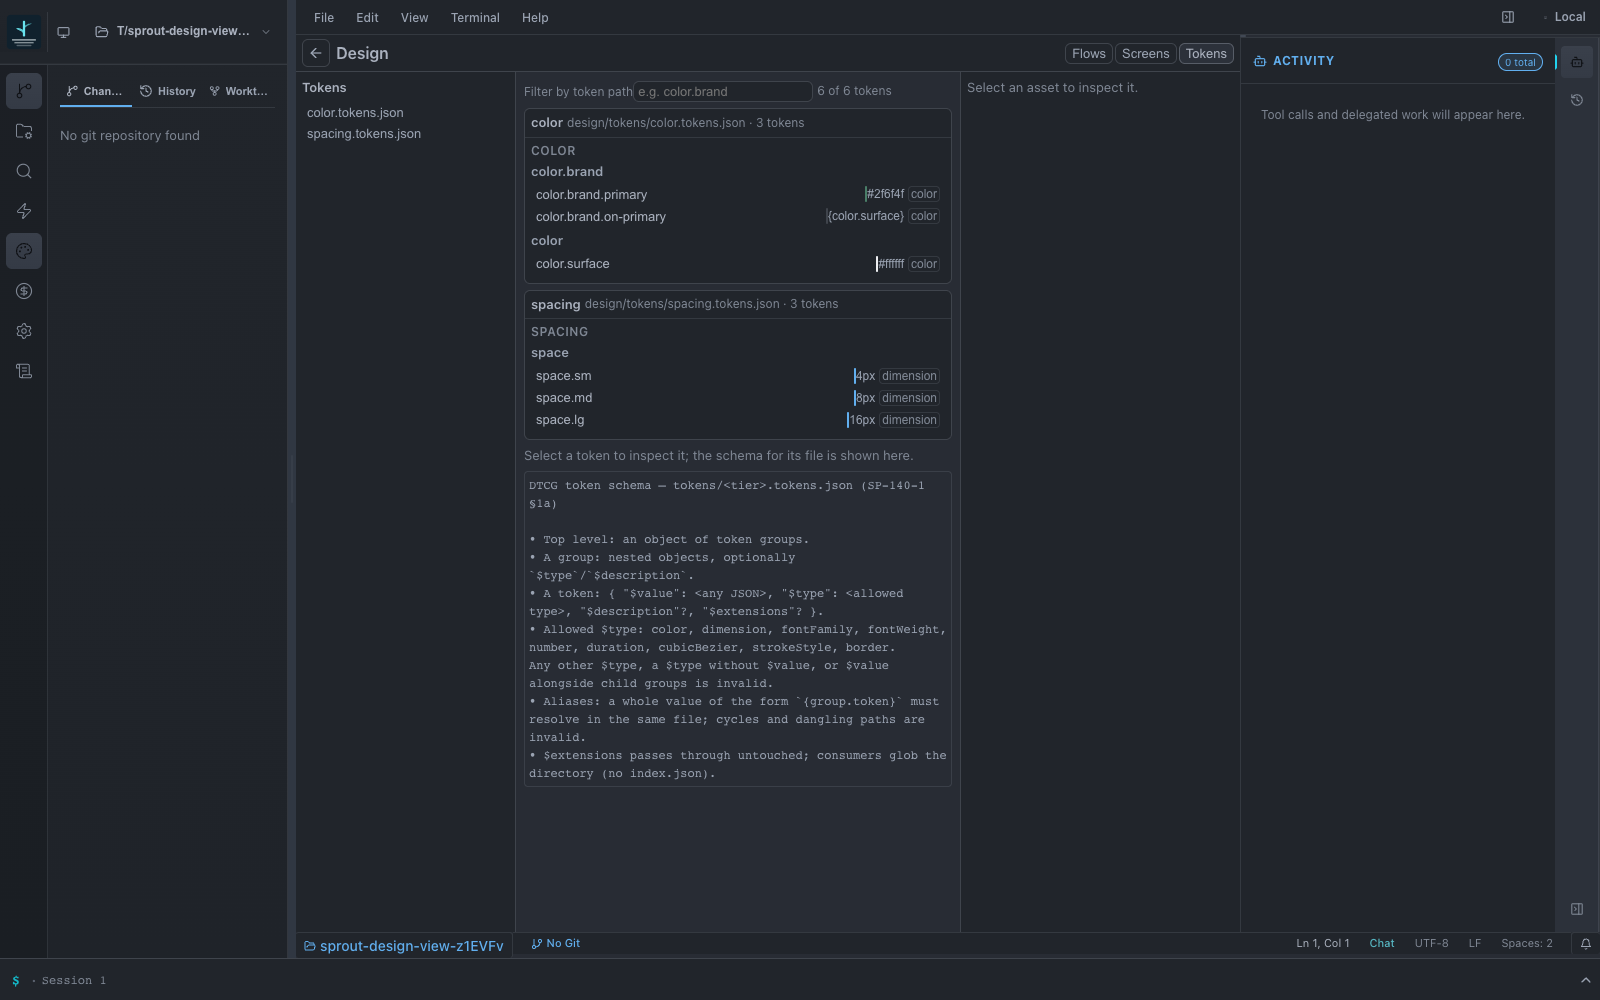
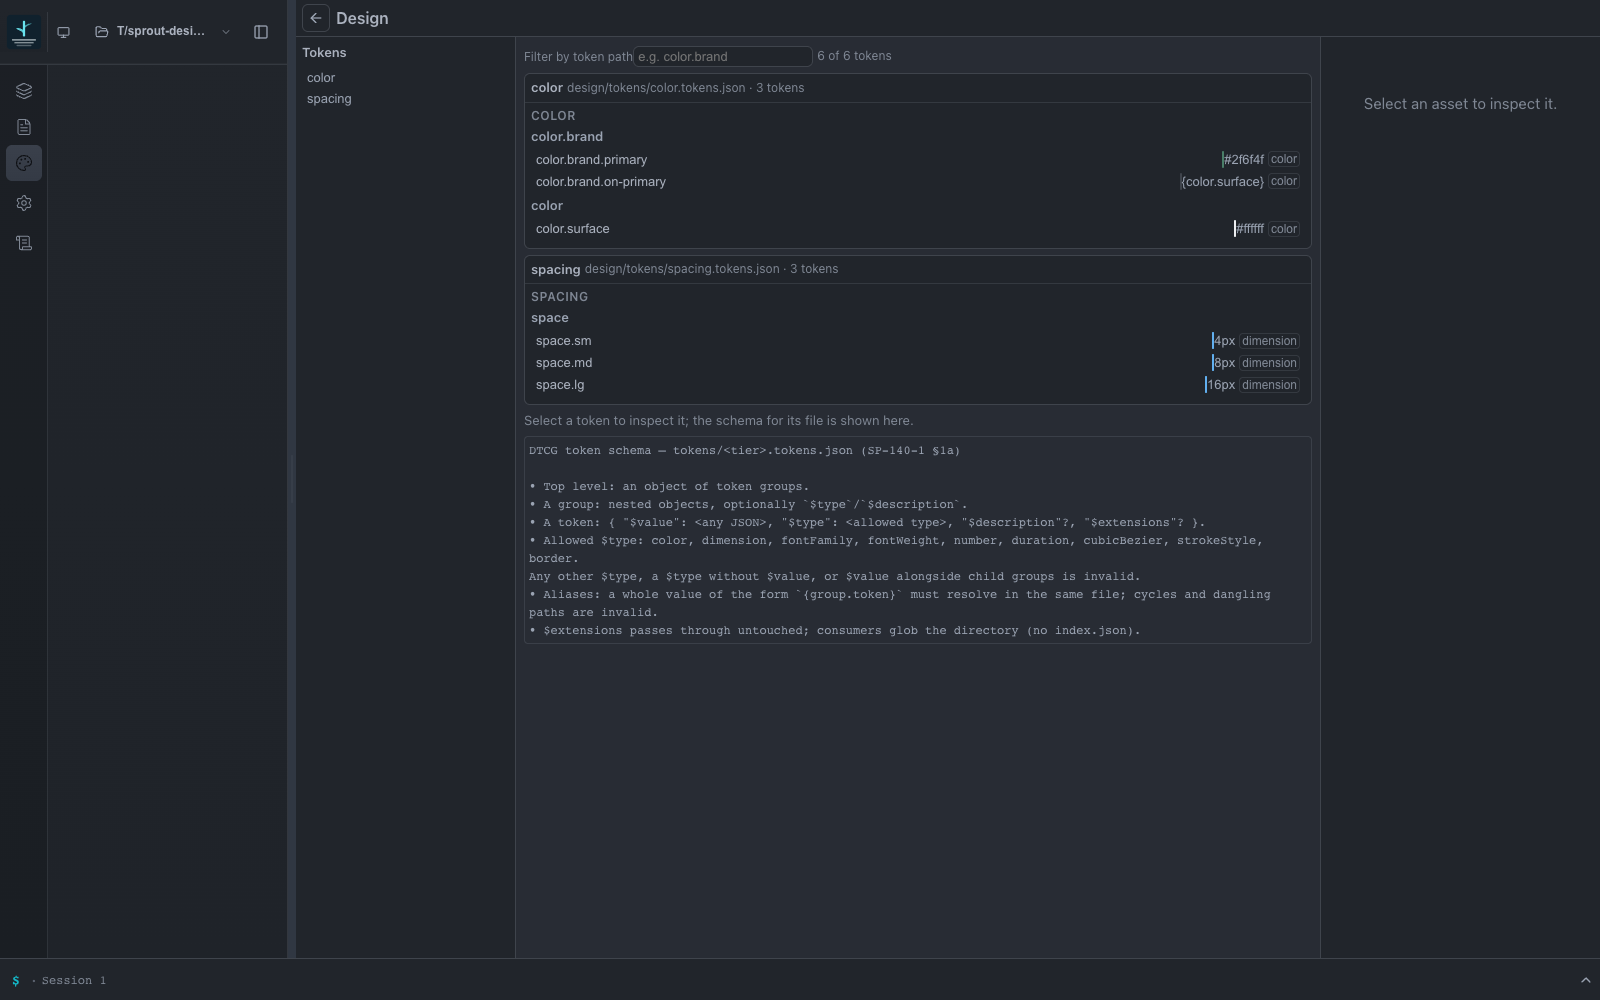
fix(webui): design surface fills the window; rail/detail polish
The design surface collapsed to content height: .design-surface had no
height rule, so DesignView's height:100% resolved against an auto-height
parent and the canvas rode its 320px min-height — in a 1000px-tall
window the canvas was 353px tall with the rest empty below the fold.
Measured with a scripted layout probe (1600x1000): canvas 804x353 with
nodes at zoom 0.57 before, 804x921 at zoom 1.0 after.

Polish from a screenshot critique of the PR assets:
- rail rows and the detail heading show artifact names without their
  serialization extension (.mmd/.html/.tokens.json); the path stays as
  the tooltip / a quiet caption
- detail pane's empty state is centered instead of a corner line
- screens grid thumbs widen (minmax 260px), token values read at sm,
  swatches 22px, flow edge labels at sm/medium weight
- flows status line demoted to a caption and singularized ("1 edge")

Capture script updated for the mode-switcher entry and rail-driven tab
testids; PR screenshots recaptured at HEAD; e2e expectation updated for
the singularized status line. tsc clean; 169 design vitest and 10/10
design e2e pass.

diff --git a/webui/src/components/design/DesignView.css b/webui/src/components/design/DesignView.css
@@ -1,5 +1,13 @@
 /* DesignView shell layout (SP-140-3 §3a). Tokens only — no raw hex/rgba. */
 
+/* The mode shell's wrapper: without an explicit height the surface's
+   height:100% child collapses to content height and the canvas rides its
+   min-height, leaving most of the window empty below the fold. */
+.design-surface {
+  height: 100%;
+  min-height: 0;
+}
+
 .design-view {
   display: flex;
   flex-direction: column;
@@ -93,12 +101,44 @@
   overflow-wrap: anywhere;
 }
 
+/* Detail pane header: artifact name prominent, path as a quiet caption. */
+.design-detail-title {
+  margin-bottom: var(--space-2);
+}
+
+.design-detail-title .design-detail-heading {
+  margin: 0;
+  font-size: var(--text-md, 1rem);
+}
+
+.design-detail-path {
+  margin: 0;
+  font-size: var(--text-xs, 12px);
+  color: var(--text-tertiary);
+  overflow-wrap: anywhere;
+}
+
+/* Empty detail state: centered rather than a line of text pinned to the
+   pane's top-left corner. */
+.design-detail-empty {
+  display: flex;
+  align-items: center;
+  justify-content: center;
+  height: 100%;
+  min-height: 120px;
+  text-align: center;
+}
+
 .design-rail-placeholder,
 .design-detail-placeholder,
 .design-tab-placeholder {
   margin: 0;
   font-size: var(--text-sm, 0.875rem);
   color: var(--text-tertiary);
+}
+
+.design-detail-empty .design-detail-placeholder {
+  font-size: var(--text-md, 1rem);
 }
 
 .design-rail-stub-row {
@@ -396,8 +436,8 @@
 
 .design-screens-grid {
   display: grid;
-  grid-template-columns: repeat(auto-fill, minmax(200px, 1fr));
-  gap: var(--space-3);
+  grid-template-columns: repeat(auto-fill, minmax(260px, 1fr));
+  gap: var(--space-4);
   margin: 0;
   padding: 0;
   list-style: none;
@@ -522,9 +562,9 @@
 
 .design-flows-status {
   margin: 0;
-  padding: var(--space-3) var(--space-4);
-  font-size: var(--text-sm, 0.875rem);
-  color: var(--text-secondary);
+  padding: var(--space-2) var(--space-4);
+  font-size: var(--text-xs, 12px);
+  color: var(--text-tertiary);
   border-bottom: 1px solid var(--border-subtle);
 }
 
@@ -557,7 +597,8 @@
 
 .design-flows .react-flow__edge-text {
   fill: var(--text-primary);
-  font-size: var(--text-xs, 12px);
+  font-size: var(--text-sm, 0.875rem);
+  font-weight: 500;
 }
 
 .design-flow-node {
@@ -769,7 +810,7 @@
 }
 
 .design-tokens-value {
-  font-size: var(--text-xs, 12px);
+  font-size: var(--text-sm, 0.875rem);
   color: var(--text-secondary);
   overflow-wrap: anywhere;
 }
@@ -778,8 +819,8 @@
    style); the border keeps a light value visible against the surface. */
 .design-token-swatch {
   flex: 0 0 auto;
-  width: 18px;
-  height: 18px;
+  width: 22px;
+  height: 22px;
   border: 1px solid var(--border-default);
   border-radius: var(--radius-sm);
 }

diff --git a/webui/src/components/design/DesignDetailPane.tsx b/webui/src/components/design/DesignDetailPane.tsx
@@ -17,6 +17,12 @@
 import type { ReactNode } from 'react';
 import DesignFeedbackAffordance from './DesignFeedbackAffordance';
 import DesignFeedbackResolution from './DesignFeedbackResolution';
+import { assetDisplayName } from './DesignAssetsRail';
+
+/** The pane heading shows the artifact name; the path stays as a caption. */
+function detailName(path: string): string {
+  return assetDisplayName(path.split('/').pop() ?? path);
+}
 
 export interface DesignDetailPaneProps {
   /** Currently selected asset path, relative to the design/ root. */
@@ -47,9 +53,12 @@ export default function DesignDetailPane({
     <div className="design-detail" data-testid="design-detail-content" data-selected={path ?? ''}>
       {path ? (
         <>
-          <h2 className="design-detail-heading" title={path}>
-            {path}
-          </h2>
+          <div className="design-detail-title">
+            <h2 className="design-detail-heading">{detailName(path)}</h2>
+            <p className="design-detail-path" title={path}>
+              {path}
+            </p>
+          </div>
           {onOpenFile ? (
             <button type="button" className="design-detail-open" onClick={() => onOpenFile(path)}>
               Open in editor
@@ -60,7 +69,9 @@ export default function DesignDetailPane({
           {children}
         </>
       ) : (
-        <p className="design-detail-placeholder">Select an asset to inspect it.</p>
+        <div className="design-detail-empty">
+          <p className="design-detail-placeholder">Select an asset to inspect it.</p>
+        </div>
       )}
     </div>
   );

diff --git a/webui/src/components/design/DesignAssetsRail.tsx b/webui/src/components/design/DesignAssetsRail.tsx
@@ -37,6 +37,16 @@ export function assetsForTab(tab: DesignTab, inventory?: DesignInventory | null)
   return inventory.tokenFiles;
 }
 
+/**
+ * Display name for a rail row: the asset's human name without its
+ * serialization extension. The design surface is about the artifact, not the
+ * file format — `.mmd`/`.html`/`.svg` leakage reads as a file manager, and the
+ * full path stays available as the row's title tooltip.
+ */
+export function assetDisplayName(name: string): string {
+  return name.replace(/\.(mmd|html|svg|png|jpg|jpeg|webp|tokens\.json)$/i, '');
+}
+
 export default function DesignAssetsRail({ tab, inventory, selected, onSelect }: DesignAssetsRailProps) {
   const label = RAIL_LABELS[tab];
   const assets = assetsForTab(tab, inventory);
@@ -57,7 +67,7 @@ export default function DesignAssetsRail({ tab, inventory, selected, onSelect }:
                 data-testid={`design-rail-row-${asset.path}`}
                 title={asset.path}
               >
-                {asset.name}
+                {assetDisplayName(asset.name)}
               </button>
             </li>
           ))}

diff --git a/webui/src/components/design/FlowsCanvas.tsx b/webui/src/components/design/FlowsCanvas.tsx
@@ -409,7 +409,8 @@ export default function FlowsCanvas({
     <div className="design-flows" data-testid="design-flows-canvas" data-flow={flowName}>
       {showChrome ? (
         <p className="design-flows-status" data-testid="design-flows-status">
-          {flowName} · {graph.nodes.length} nodes · {graph.edges.length} edges · {canvasOrientation(graph, sidecar)}
+          {flowName} · {graph.nodes.length} {graph.nodes.length === 1 ? 'node' : 'nodes'} ·{' '}
+          {graph.edges.length} {graph.edges.length === 1 ? 'edge' : 'edges'} · {canvasOrientation(graph, sidecar)}
         </p>
       ) : null}
       <div className="design-flows-viewport" data-testid="design-flow-graph">

diff --git a/test/webui/design_view.spec.ts b/test/webui/design_view.spec.ts
@@ -160,7 +160,7 @@ test.describe("SP-140-3 DesignView", () => {
     // before the graph settles, so the status line is the stable readiness
     // signal: flow name, node/edge counts, and the declared orientation.
     await expect(page.getByTestId("design-flows-status")).toContainText(
-      `${FIXTURE_FLOW} · 2 nodes · 1 edges · LR`,
+      `${FIXTURE_FLOW} · 2 nodes · 1 edge · LR`,
     );
 
     const graph = page.getByTestId("design-flow-graph");
